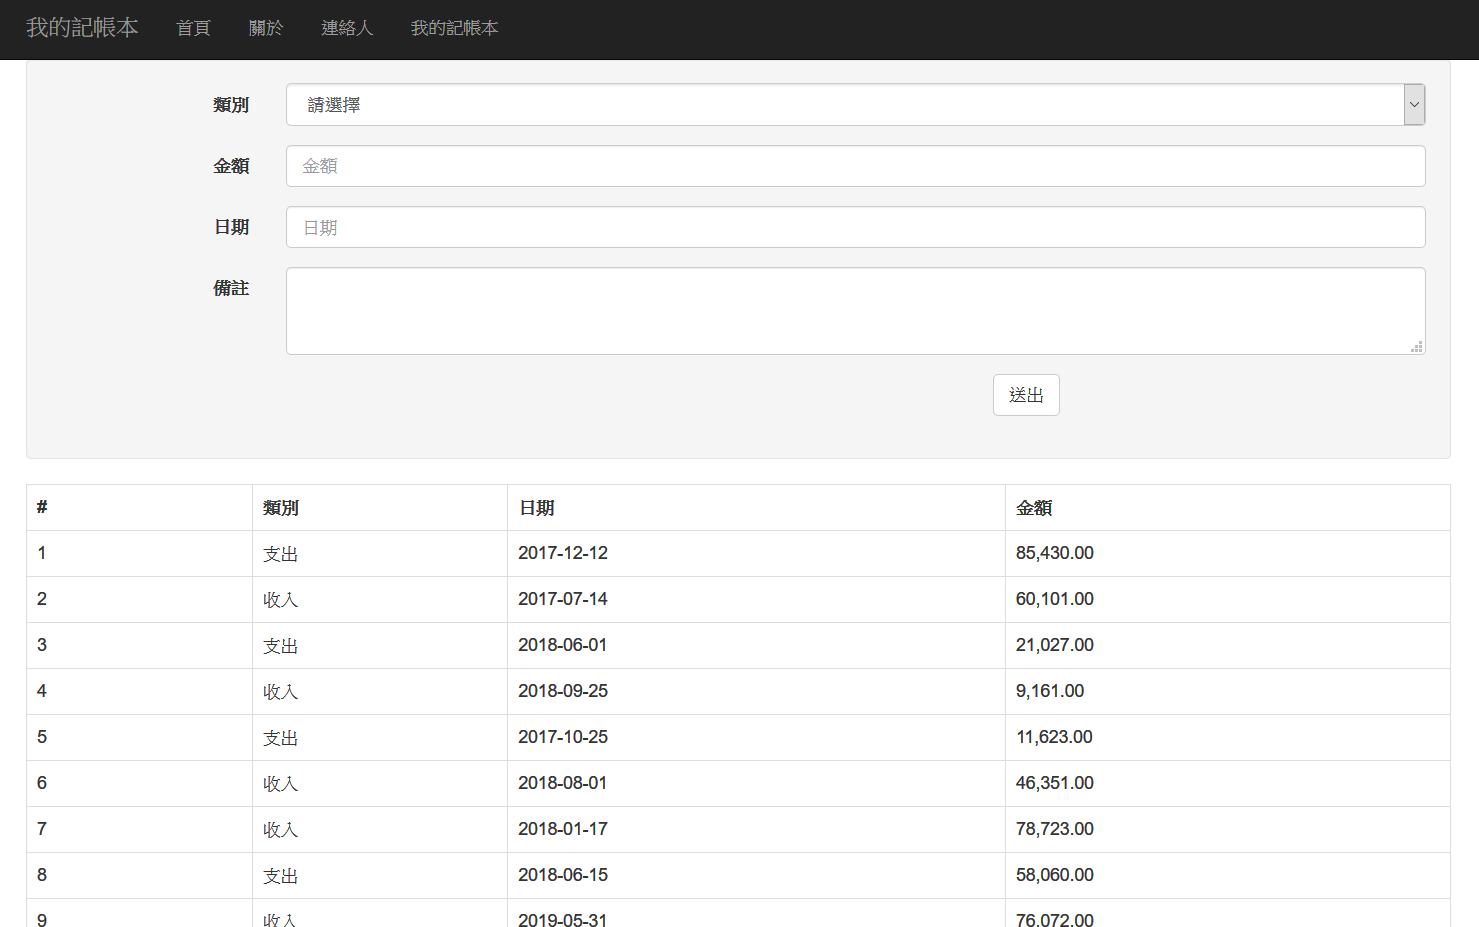
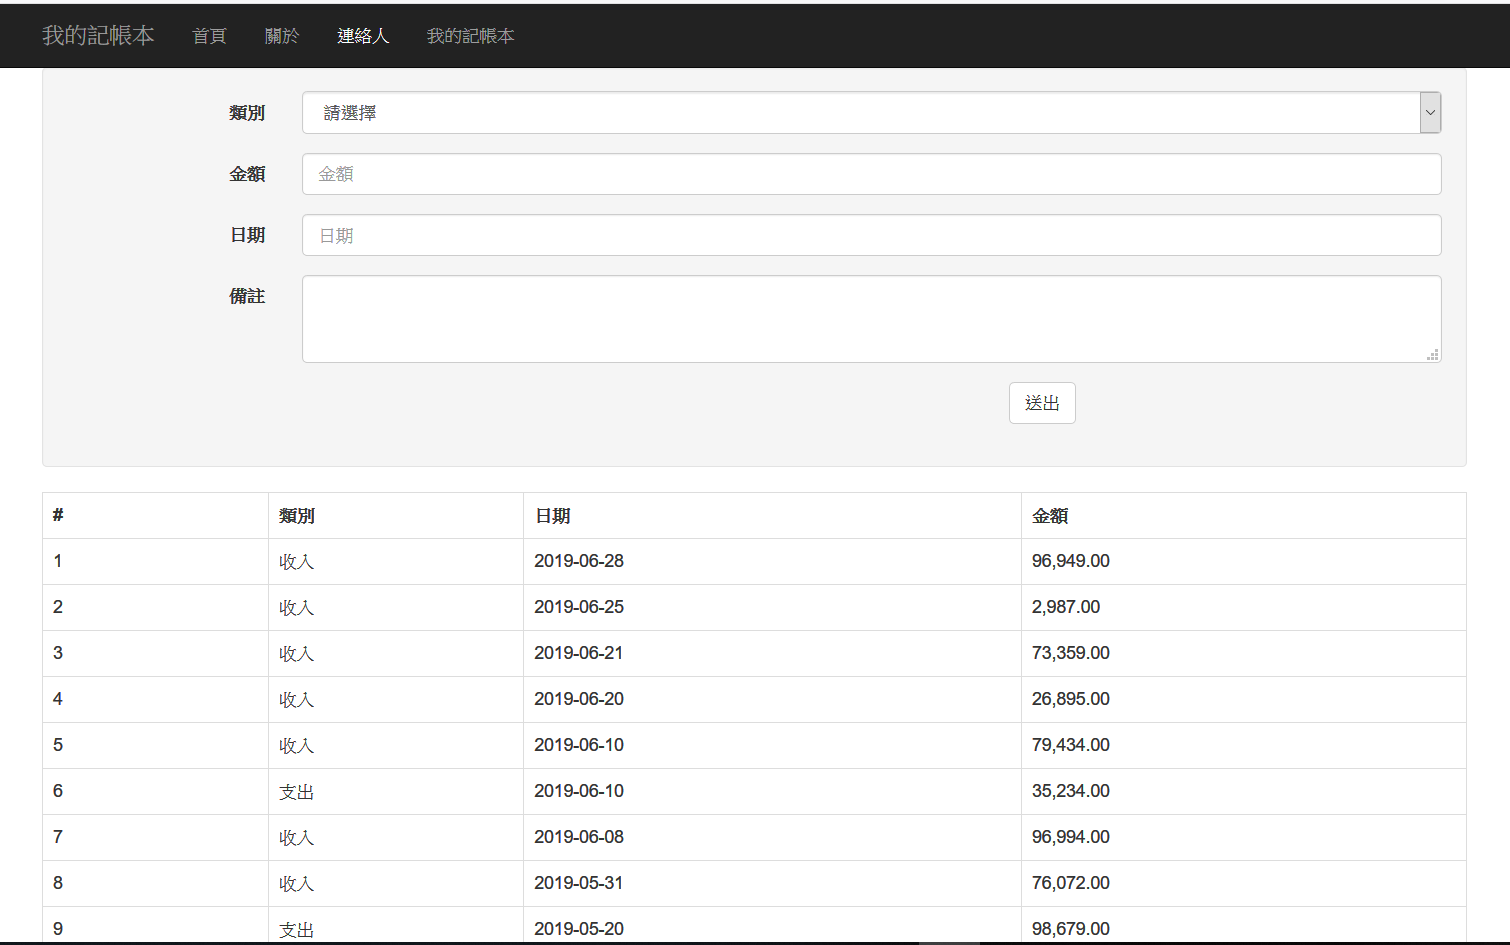
加入時間排序

diff --git a/MoneyTemplateHW/Controllers/BookkepingController.cs b/MoneyTemplateHW/Controllers/BookkepingController.cs
@@ -1,5 +1,6 @@
 using MoneyTemplateHW.Models.ViewModels;
 using System.Web.Mvc;
+using System.Linq;
 
 namespace MoneyTemplateHW.Controllers
 {
@@ -8,6 +9,8 @@ namespace MoneyTemplateHW.Controllers
         // GET: BookkepingController
         public ActionResult Index(MoneyBookViewModel MBV)
         {
+            MBV.MoneyBookData_List = MBV.MoneyBookData_List.AsEnumerable().OrderByDescending(x => x.date).ToList();
+
             return View(MBV);
         }
     }
